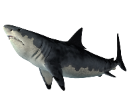
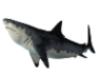
made images smaller, played with gamespeed

diff --git a/js/app.js b/js/app.js
@@ -12,7 +12,7 @@ class Obstacle {
         const animalPossibilities = ["swimmer", "seal", "jelly", "shark"];
         this.type = animalPossibilities[Math.floor(Math.random() * animalPossibilities.length)];
         this.x = 735;
-        this.y = Math.floor(Math.random() * 100) + 225;
+        this.y = Math.floor(Math.random() * 250) + 100;
         this.width = 50;
         this.height = 50;
     }
@@ -23,7 +23,7 @@ class Obstacle {
     }
 
     move() {
-        this.x -= Math.floor(Math.random() * 3) + 1;
+        this.x -= Math.floor(Math.random() * 10) + 7;
     }
 
 }
@@ -39,7 +39,7 @@ const theWave = {
 
 const surfer = {
     x: 50,
-    y: 200,
+    y: 150,
     width: 50,
     height: 50,
     speed: 50,
@@ -50,10 +50,10 @@ const surfer = {
     },
 
     move(direction) {
-        if (direction == "ArrowDown" && this.y < 319) {
+        if (direction == "ArrowDown" && this.y < 315) {
             this.y += this.speed;
         }
-        if (direction == "ArrowUp" && this.y > 135) {
+        if (direction == "ArrowUp" && this.y > 70) {
             this.y -= this.speed;
         }
         if (direction == "ArrowLeft" && this.x > 5) {
@@ -131,10 +131,10 @@ const gamePlay = {
             this.printStats();
 
             // const arbTime = Math.floor(Math.random() * 3 + 1)
-            if (this.time % 2 === 0) {
+            // if (this.time %  === 0) {
                 const o = new Obstacle();
                 gamePlay.animals.push(o)
-            }
+            // }
 
             if (this.time % 10 === 0){
             	this.stokeLevel++
